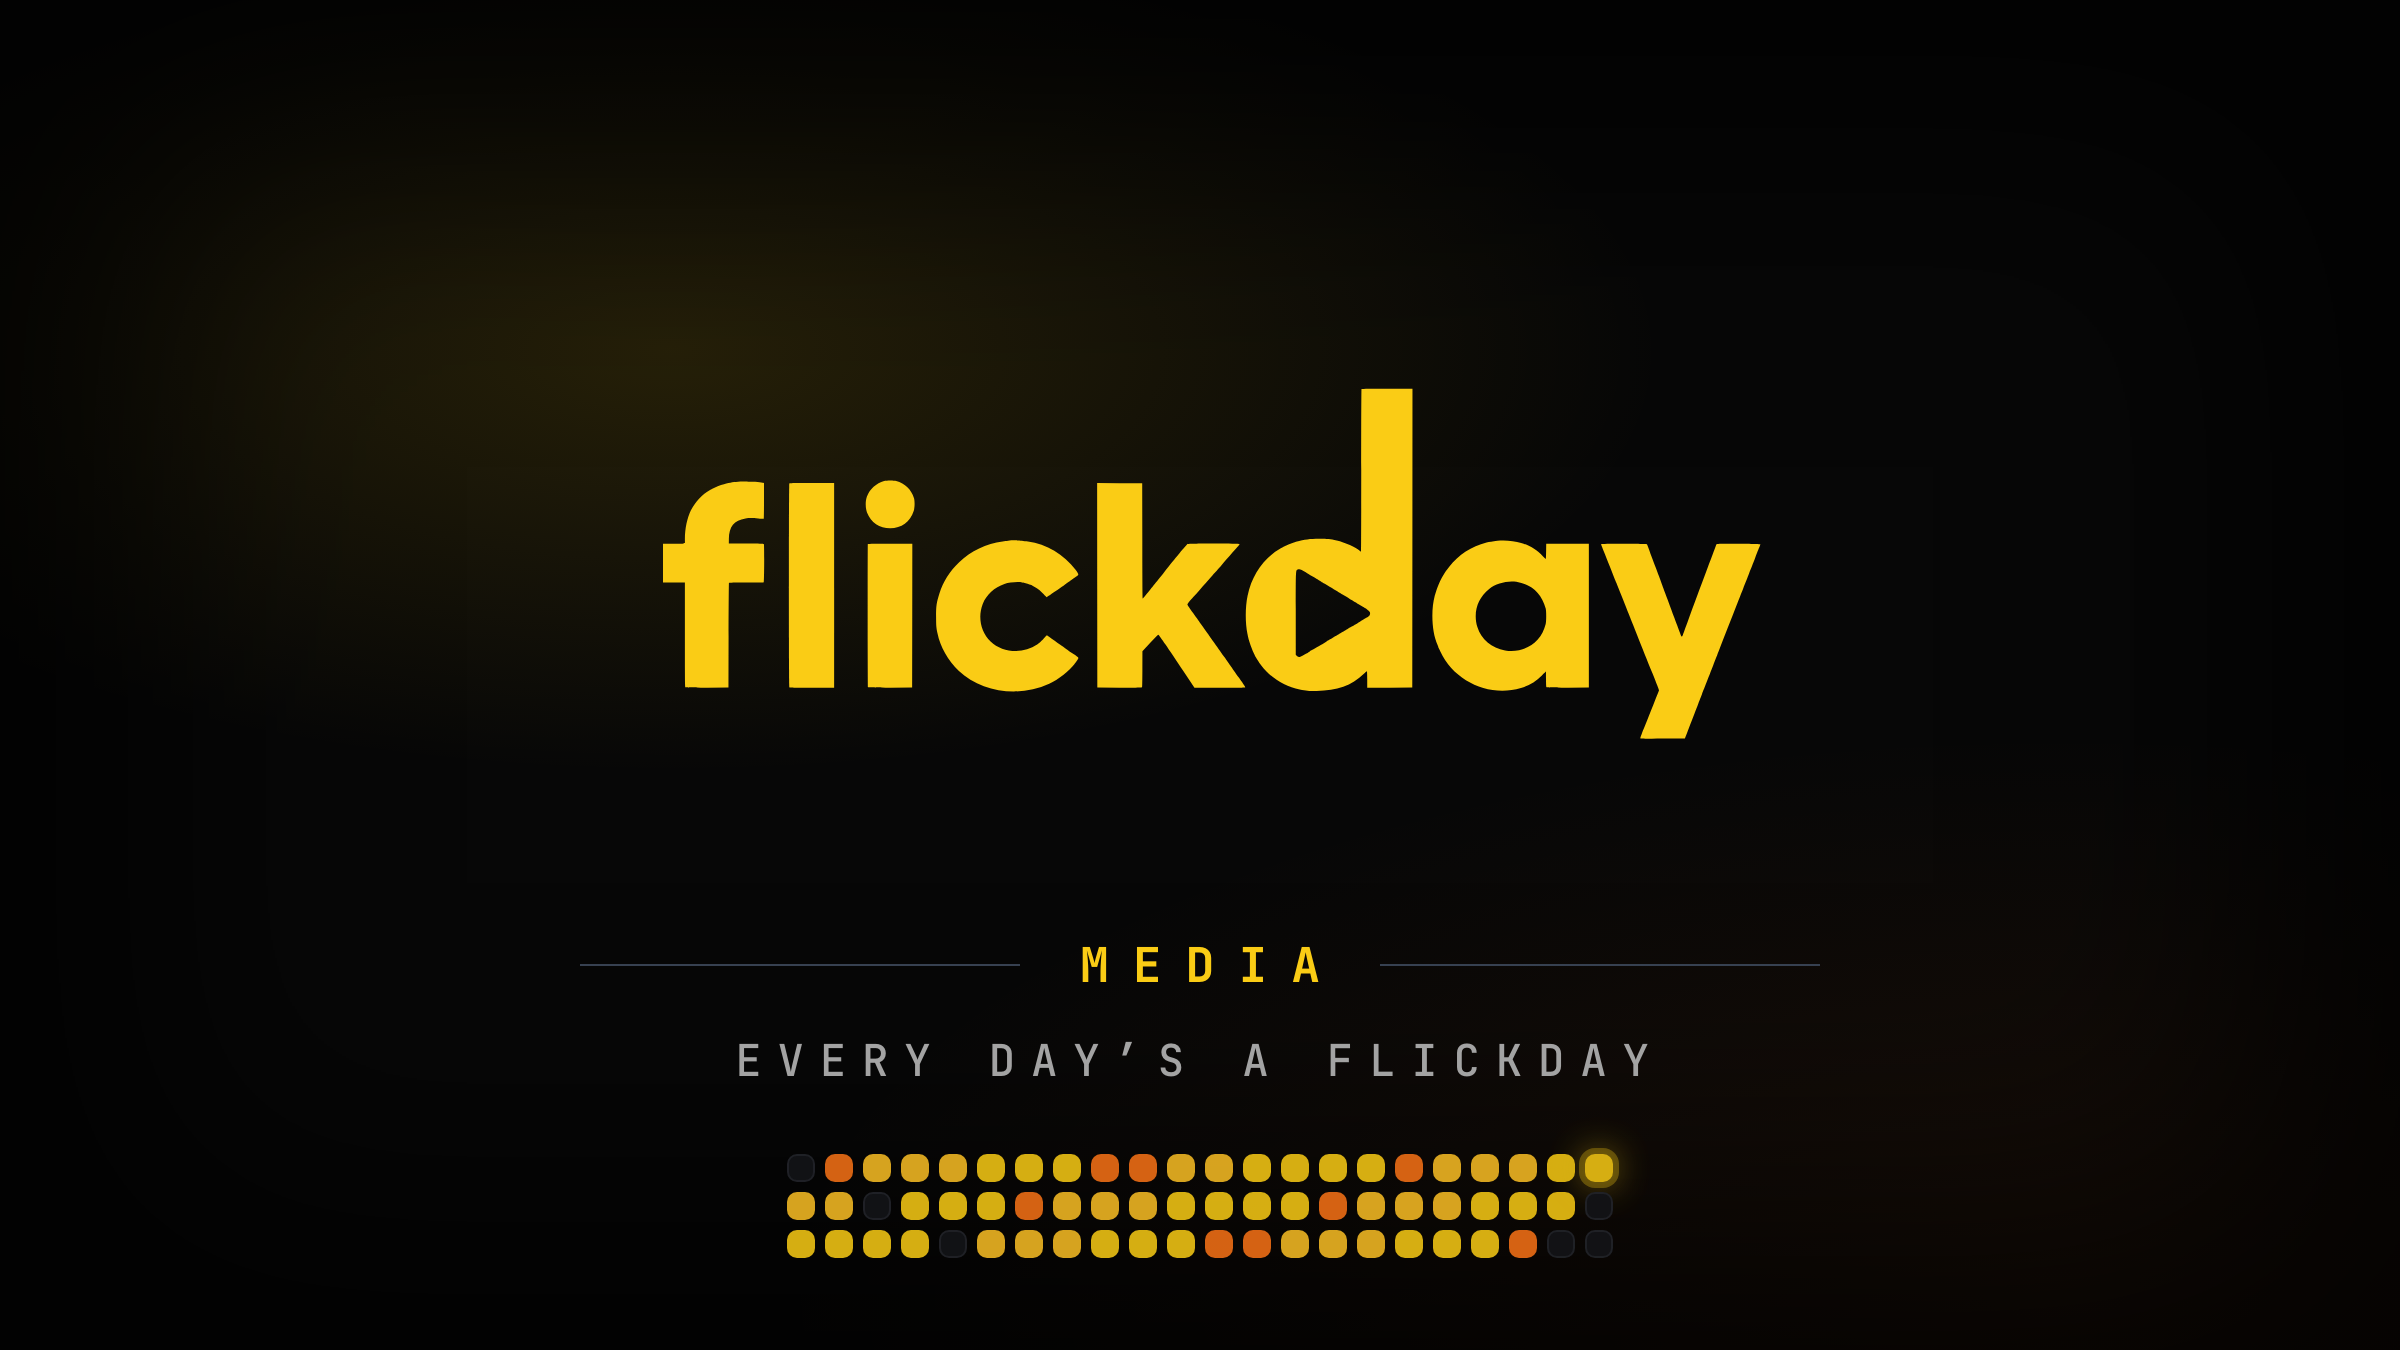
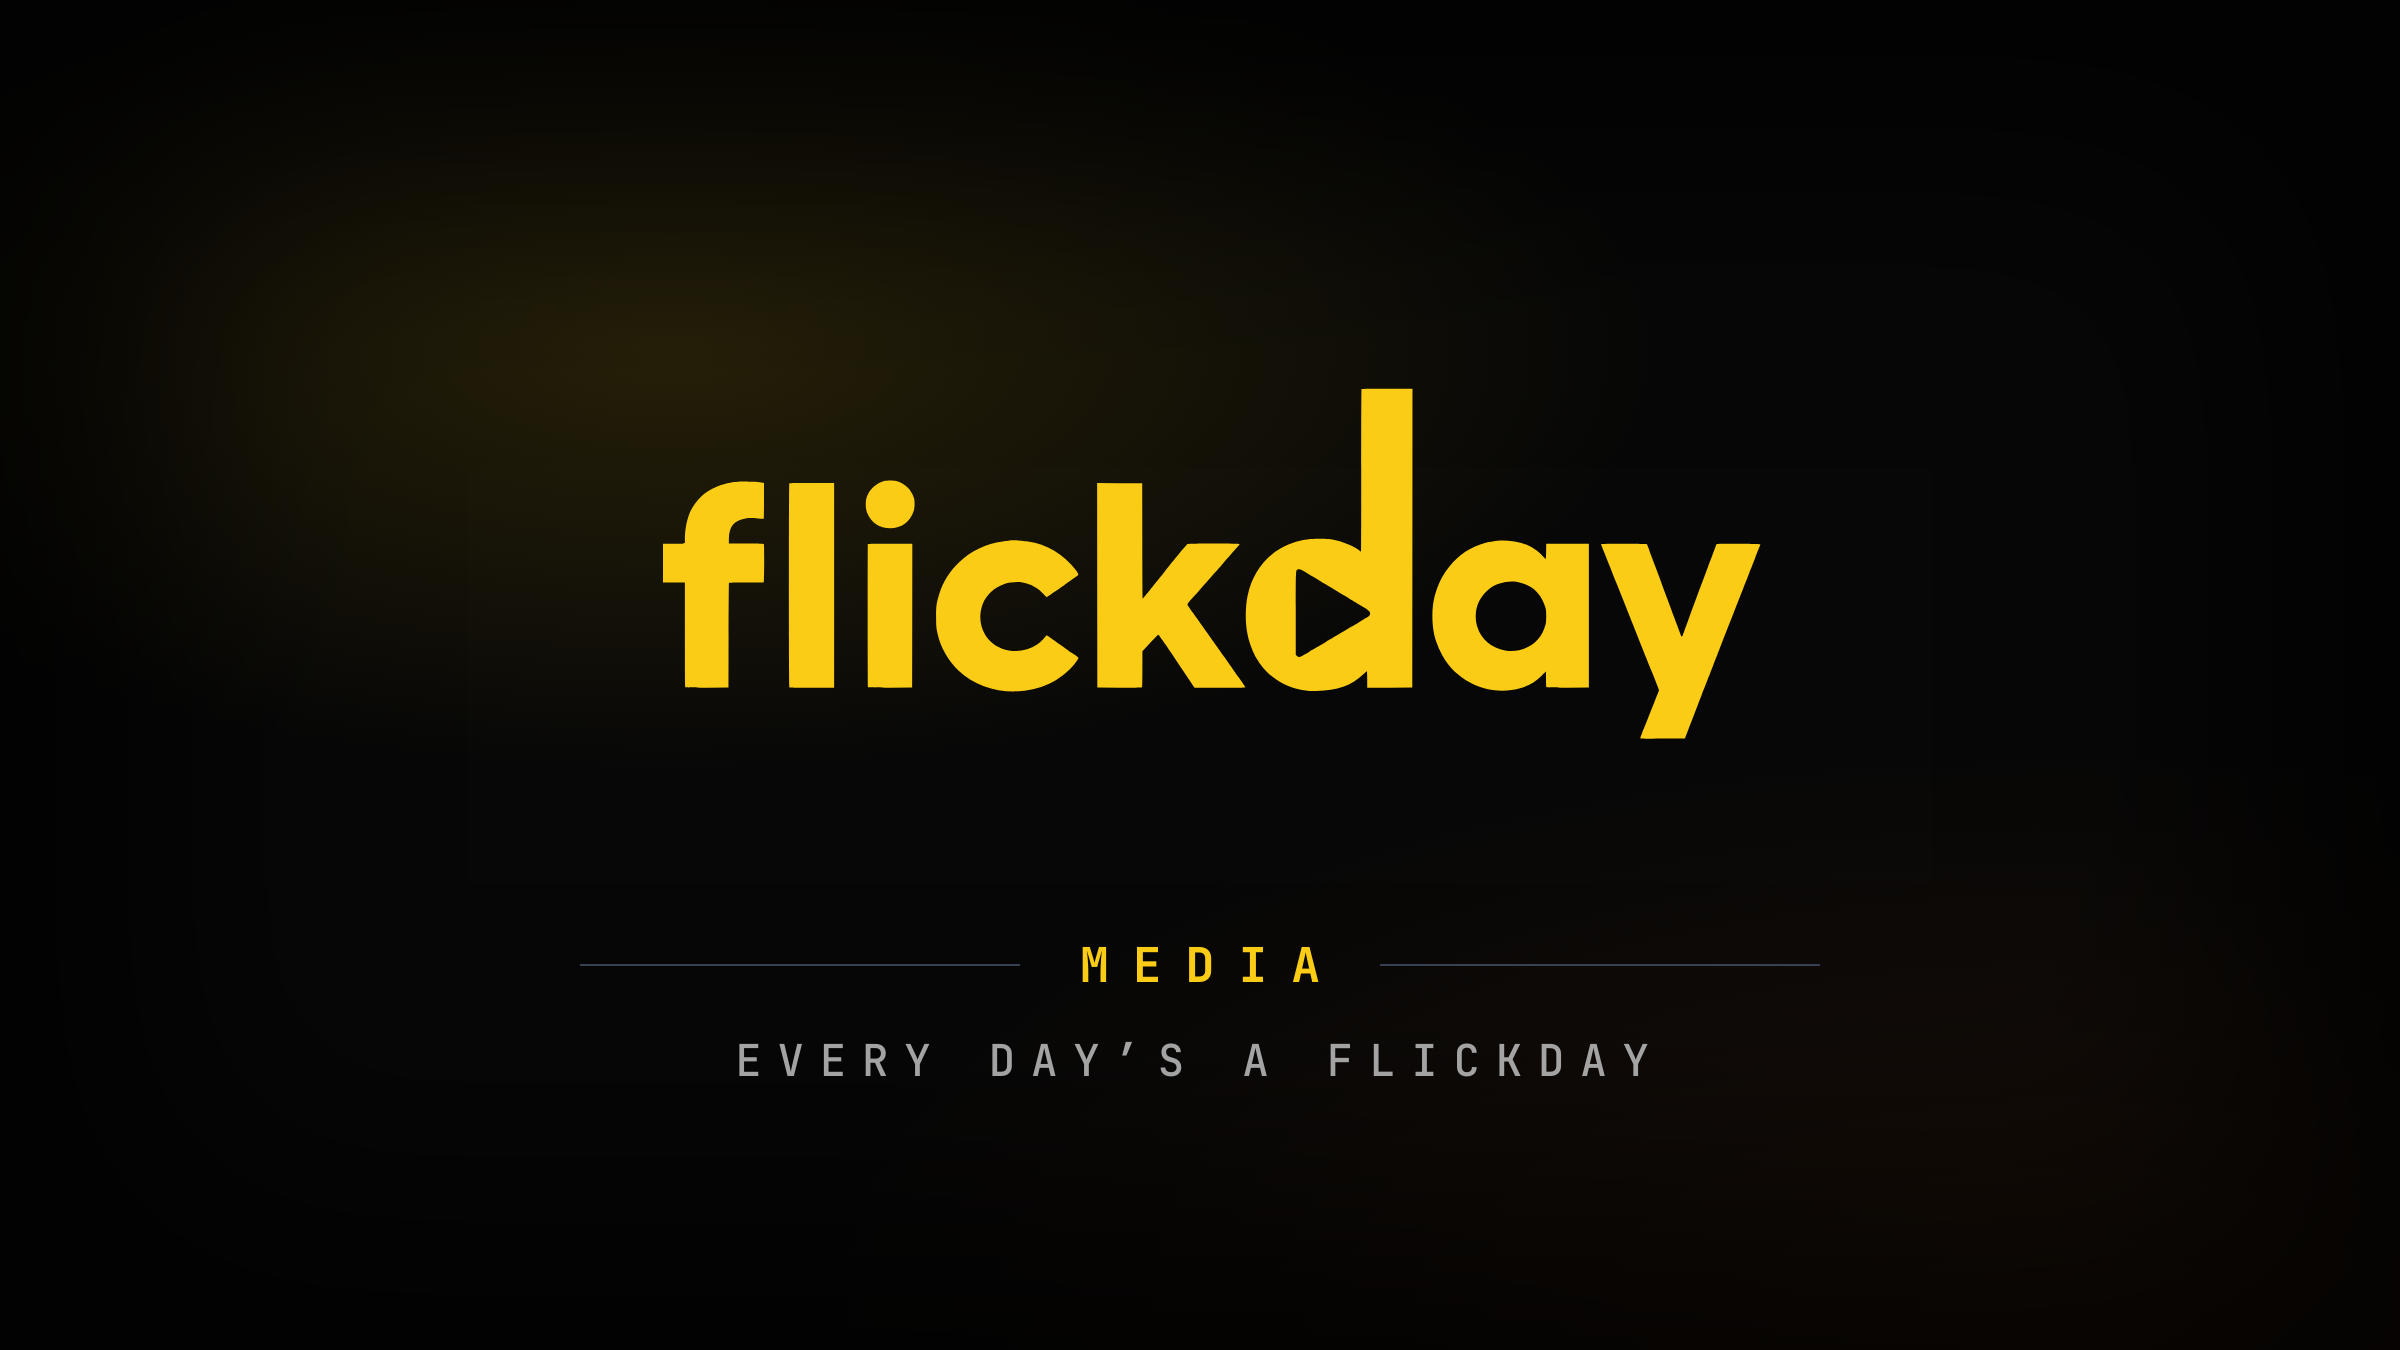
feat(brand): FD scoreboard component + clean share card
Add element-fd-scoreboard (SVG + PNG, both colorways) to the component
library — the LED FD mark is reusable now. Remove the filler streak from the
og/share card so it's clean (wordmark + MEDIA + tagline only); bust og ?v=3.

Claude-Session: https://claude.ai/code/session_01LkxfT86YiW5EJSxVryn1jE

Changed region(s): [[0.3125, 0.84, 0.6875, 0.9333]]

diff --git a/index.html b/index.html
@@ -11,7 +11,7 @@
   <meta property="og:description" content="Raw, fast, and player-first sports media. Tournament coverage for volleyball and action sports.">
   <meta property="og:type" content="website">
   <meta property="og:url" content="https://flickdaymedia.com">
-  <meta property="og:image" content="./flickday-assets/lockup-flickday-media-v2b.png?v=2">
+  <meta property="og:image" content="./flickday-assets/lockup-flickday-media-v2b.png?v=3">
 
   <!-- Favicon / app icons -->
   <link rel="icon" href="./flickday-assets/favicon/favicon.ico" sizes="any">
